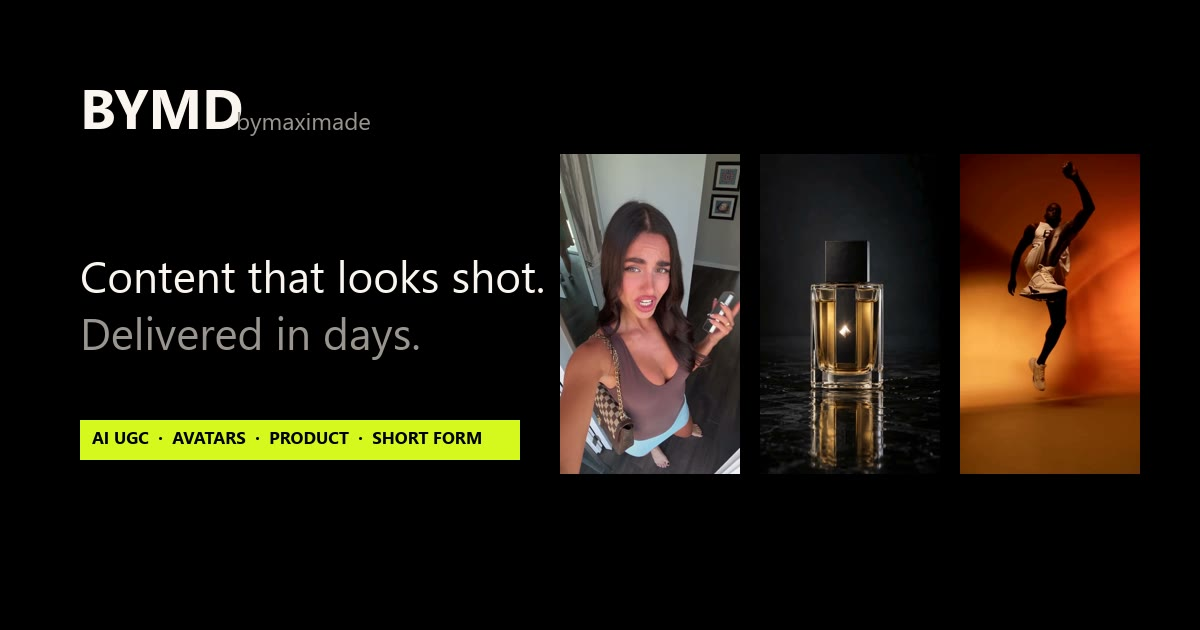
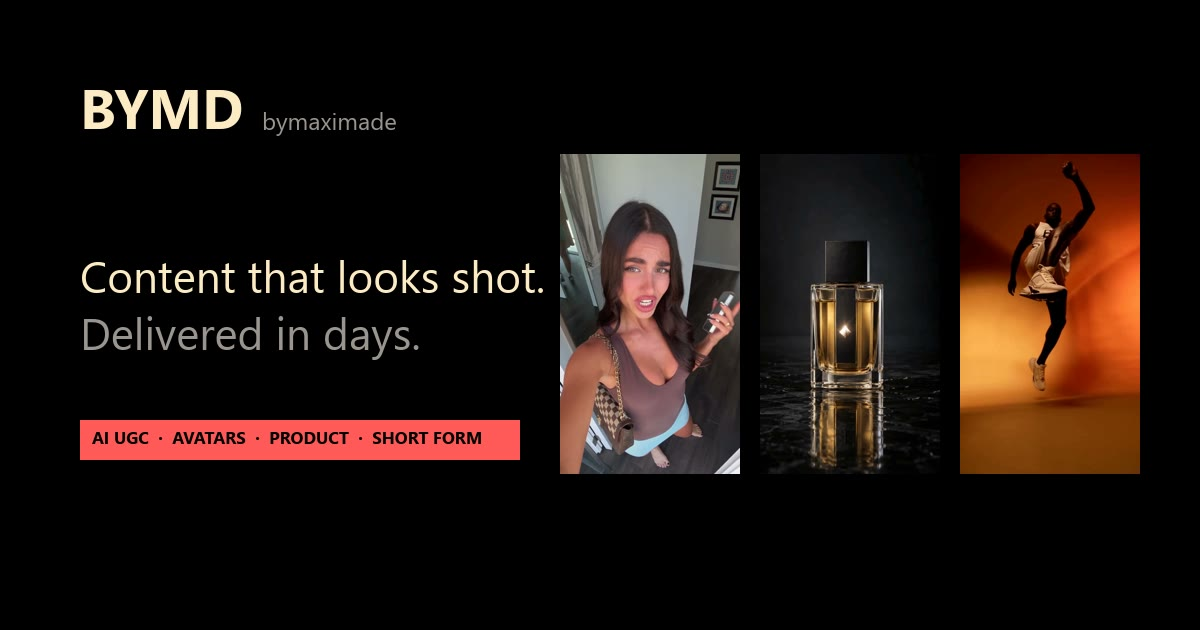
Brand palette: coral #FF5A58 and cream #FFEBC5 replace lime and warm white
The stylesheet is shared by both pages, so the swap covers the landing page and
the project inquiry page together. Accent stays a black-text-on-coral badge;
cream carries all text. Favicon and share image rebuilt to match.

Changed region(s): [[0.0617, 0.6635, 0.4317, 0.754], [0.0617, 0.4222, 0.4625, 0.4825], [0.0617, 0.1206, 0.3392, 0.2111]]

diff --git a/styles.css b/styles.css
@@ -81,18 +81,18 @@ video.tile { padding: 0; display: block; }
   font-size: clamp(1.25rem, 2vw, 1.6rem);
   font-weight: 500;
   letter-spacing: -0.02em;
-  color: #FBF5F0;
+  color: #FFEBC5;
   transition: background-color 0.25s, color 0.25s;
 }
 .partner span { font-size: 0.75rem; font-weight: 400; letter-spacing: 0.15em; text-transform: uppercase; color: #9a9590; }
-.partner:hover { background: #FBF5F0; color: #0a0a0a; }
+.partner:hover { background: #FFEBC5; color: #0a0a0a; }
 .partner:hover span { color: #555; }
 .partner--cta em { font-style: normal; }
 
-/* Lime highlight badge: the only place the accent appears. Black text on lime, never lime text. */
+/* Coral highlight badge: the only place the accent appears. Black text on coral, never coral text. */
 .badge {
   display: inline-block;
-  background: #D6F91F;
+  background: #FF5A58;
   color: #000;
   font-size: 0.7rem;
   font-weight: 700;
@@ -111,7 +111,7 @@ video.tile { padding: 0; display: block; }
   font-size: 1.5rem;
   letter-spacing: -0.04em;
   line-height: 1;
-  color: #FBF5F0;
+  color: #FFEBC5;
 }
 .wordmark--lg { font-size: 2.4rem; }
 
@@ -127,7 +127,7 @@ video.tile { padding: 0; display: block; }
   padding: 1.25rem 0;
   font-weight: 700;
   font-size: 1.05rem;
-  color: #FBF5F0;
+  color: #FFEBC5;
 }
 .faq summary::-webkit-details-marker { display: none; }
 .faq summary::after {
@@ -143,7 +143,7 @@ video.tile { padding: 0; display: block; }
   color: #9a9590;
   transition: transform 0.25s, background-color 0.25s, color 0.25s;
 }
-.faq[open] summary::after { transform: rotate(45deg); background: #D6F91F; color: #000; border-color: #D6F91F; }
+.faq[open] summary::after { transform: rotate(45deg); background: #FF5A58; color: #000; border-color: #FF5A58; }
 
 /* Nav — scroll state */
 #nav.scrolled {
@@ -164,7 +164,7 @@ video.tile { padding: 0; display: block; }
 
 /* ---------- Apply wizard ---------- */
 .progress { height: 2px; background: rgba(255, 255, 255, 0.12); overflow: hidden; }
-.progress i { display: block; height: 100%; background: #D6F91F; transition: width 0.45s cubic-bezier(0.2, 0.7, 0.2, 1); }
+.progress i { display: block; height: 100%; background: #FF5A58; transition: width 0.45s cubic-bezier(0.2, 0.7, 0.2, 1); }
 
 .steps { position: relative; margin-top: 2rem; }
 .step { display: none; border: 0; padding: 0; margin: 0; min-width: 0; }
@@ -183,12 +183,12 @@ video.tile { padding: 0; display: block; }
   padding: 0.6rem 1rem;
   min-height: 44px;
   font-size: 0.875rem;
-  color: #FBF5F0;
+  color: #FFEBC5;
   background: transparent;
   transition: background-color 0.2s, color 0.2s, border-color 0.2s, transform 0.2s;
 }
 .chip:hover { border-color: rgba(255, 255, 255, 0.5); transform: translateY(-1px); }
-.chip.is-on { background: #D6F91F; color: #000; border-color: #D6F91F; }
+.chip.is-on { background: #FF5A58; color: #000; border-color: #FF5A58; }
 
 .field {
   width: 100%;
@@ -196,11 +196,11 @@ video.tile { padding: 0; display: block; }
   border: 0;
   border-bottom: 1px solid rgba(255, 255, 255, 0.10);
   padding: 0.75rem 0;
-  color: #fff;
+  color: #FFEBC5;
   transition: border-color 0.2s;
 }
 .field::placeholder { color: #9a9590; }
-.field:focus { outline: none; border-color: #D6F91F; }
+.field:focus { outline: none; border-color: #FF5A58; }
 .field.is-invalid { border-color: #fff; }
 
 .wizard.is-sending #step-next { opacity: 0.5; pointer-events: none; }
@@ -210,7 +210,7 @@ input:-webkit-autofill,
 input:-webkit-autofill:hover,
 input:-webkit-autofill:focus,
 textarea:-webkit-autofill {
-  -webkit-text-fill-color: #FBF5F0;
+  -webkit-text-fill-color: #FFEBC5;
   -webkit-box-shadow: 0 0 0px 1000px #0a0a0a inset;
   transition: background-color 5000s ease-in-out 0s;
 }

diff --git a/index.html b/index.html
@@ -52,8 +52,8 @@
         extend: {
           fontFamily: { sans: ['Coolvetica', 'Archivo', 'Helvetica Neue', 'Arial', 'sans-serif'], display: ['Recoleta', 'Fraunces', 'Georgia', 'serif'] },
           colors: {
-            brand: { DEFAULT: '#D6F91F', hover: '#C4E61A' },
-            ink: { 900: '#000000', 800: '#0a0a0a', 700: '#141414', 500: '#9a9590', 300: '#d9d3ce', 100: '#FBF5F0' },
+            brand: { DEFAULT: '#FF5A58', hover: '#EB5350' },
+            ink: { 900: '#000000', 800: '#0a0a0a', 700: '#141414', 500: '#9a9590', 300: '#d9d3ce', 100: '#FFEBC5' },
             line: 'rgba(255,255,255,0.10)',
           },
         },

diff --git a/project-inquiries.html b/project-inquiries.html
@@ -36,8 +36,8 @@
         extend: {
           fontFamily: { sans: ['Coolvetica', 'Archivo', 'Helvetica Neue', 'Arial', 'sans-serif'], display: ['Recoleta', 'Fraunces', 'Georgia', 'serif'] },
           colors: {
-            brand: { DEFAULT: '#D6F91F', hover: '#C4E61A' },
-            ink: { 900: '#000000', 800: '#0a0a0a', 700: '#141414', 500: '#9a9590', 300: '#d9d3ce', 100: '#FBF5F0' },
+            brand: { DEFAULT: '#FF5A58', hover: '#EB5350' },
+            ink: { 900: '#000000', 800: '#0a0a0a', 700: '#141414', 500: '#9a9590', 300: '#d9d3ce', 100: '#FFEBC5' },
             line: 'rgba(255,255,255,0.10)',
           },
         },
